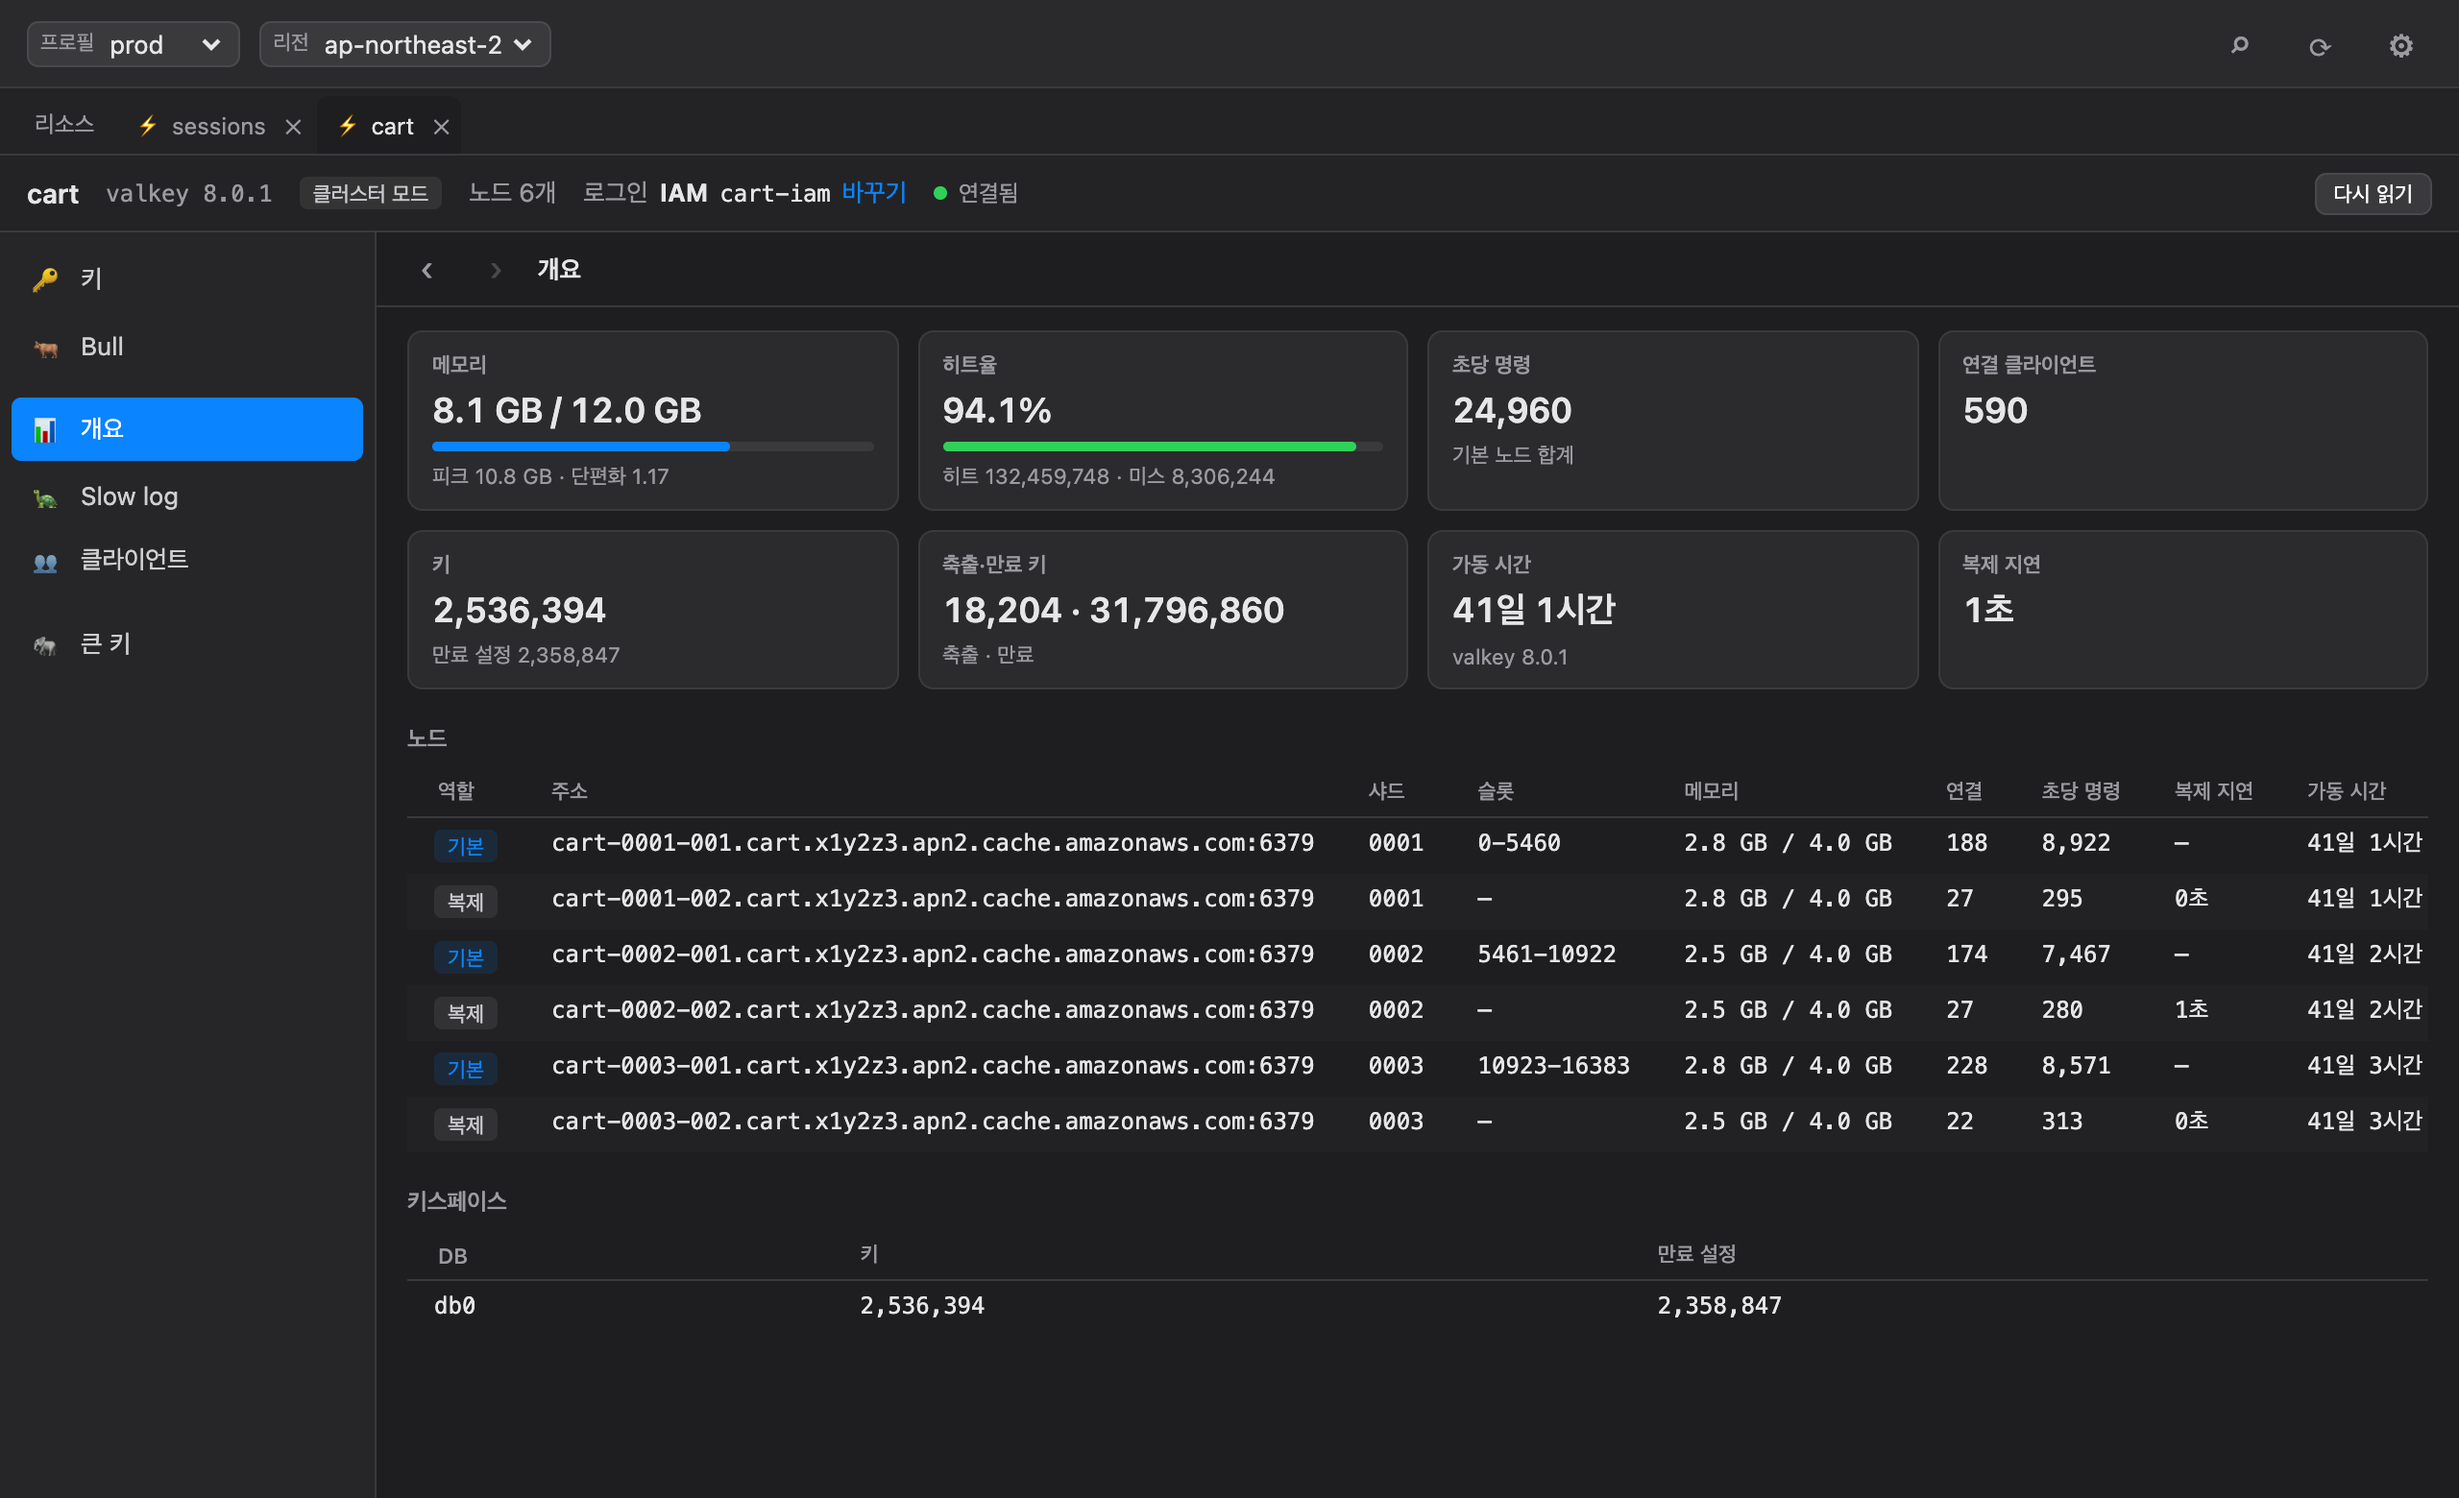
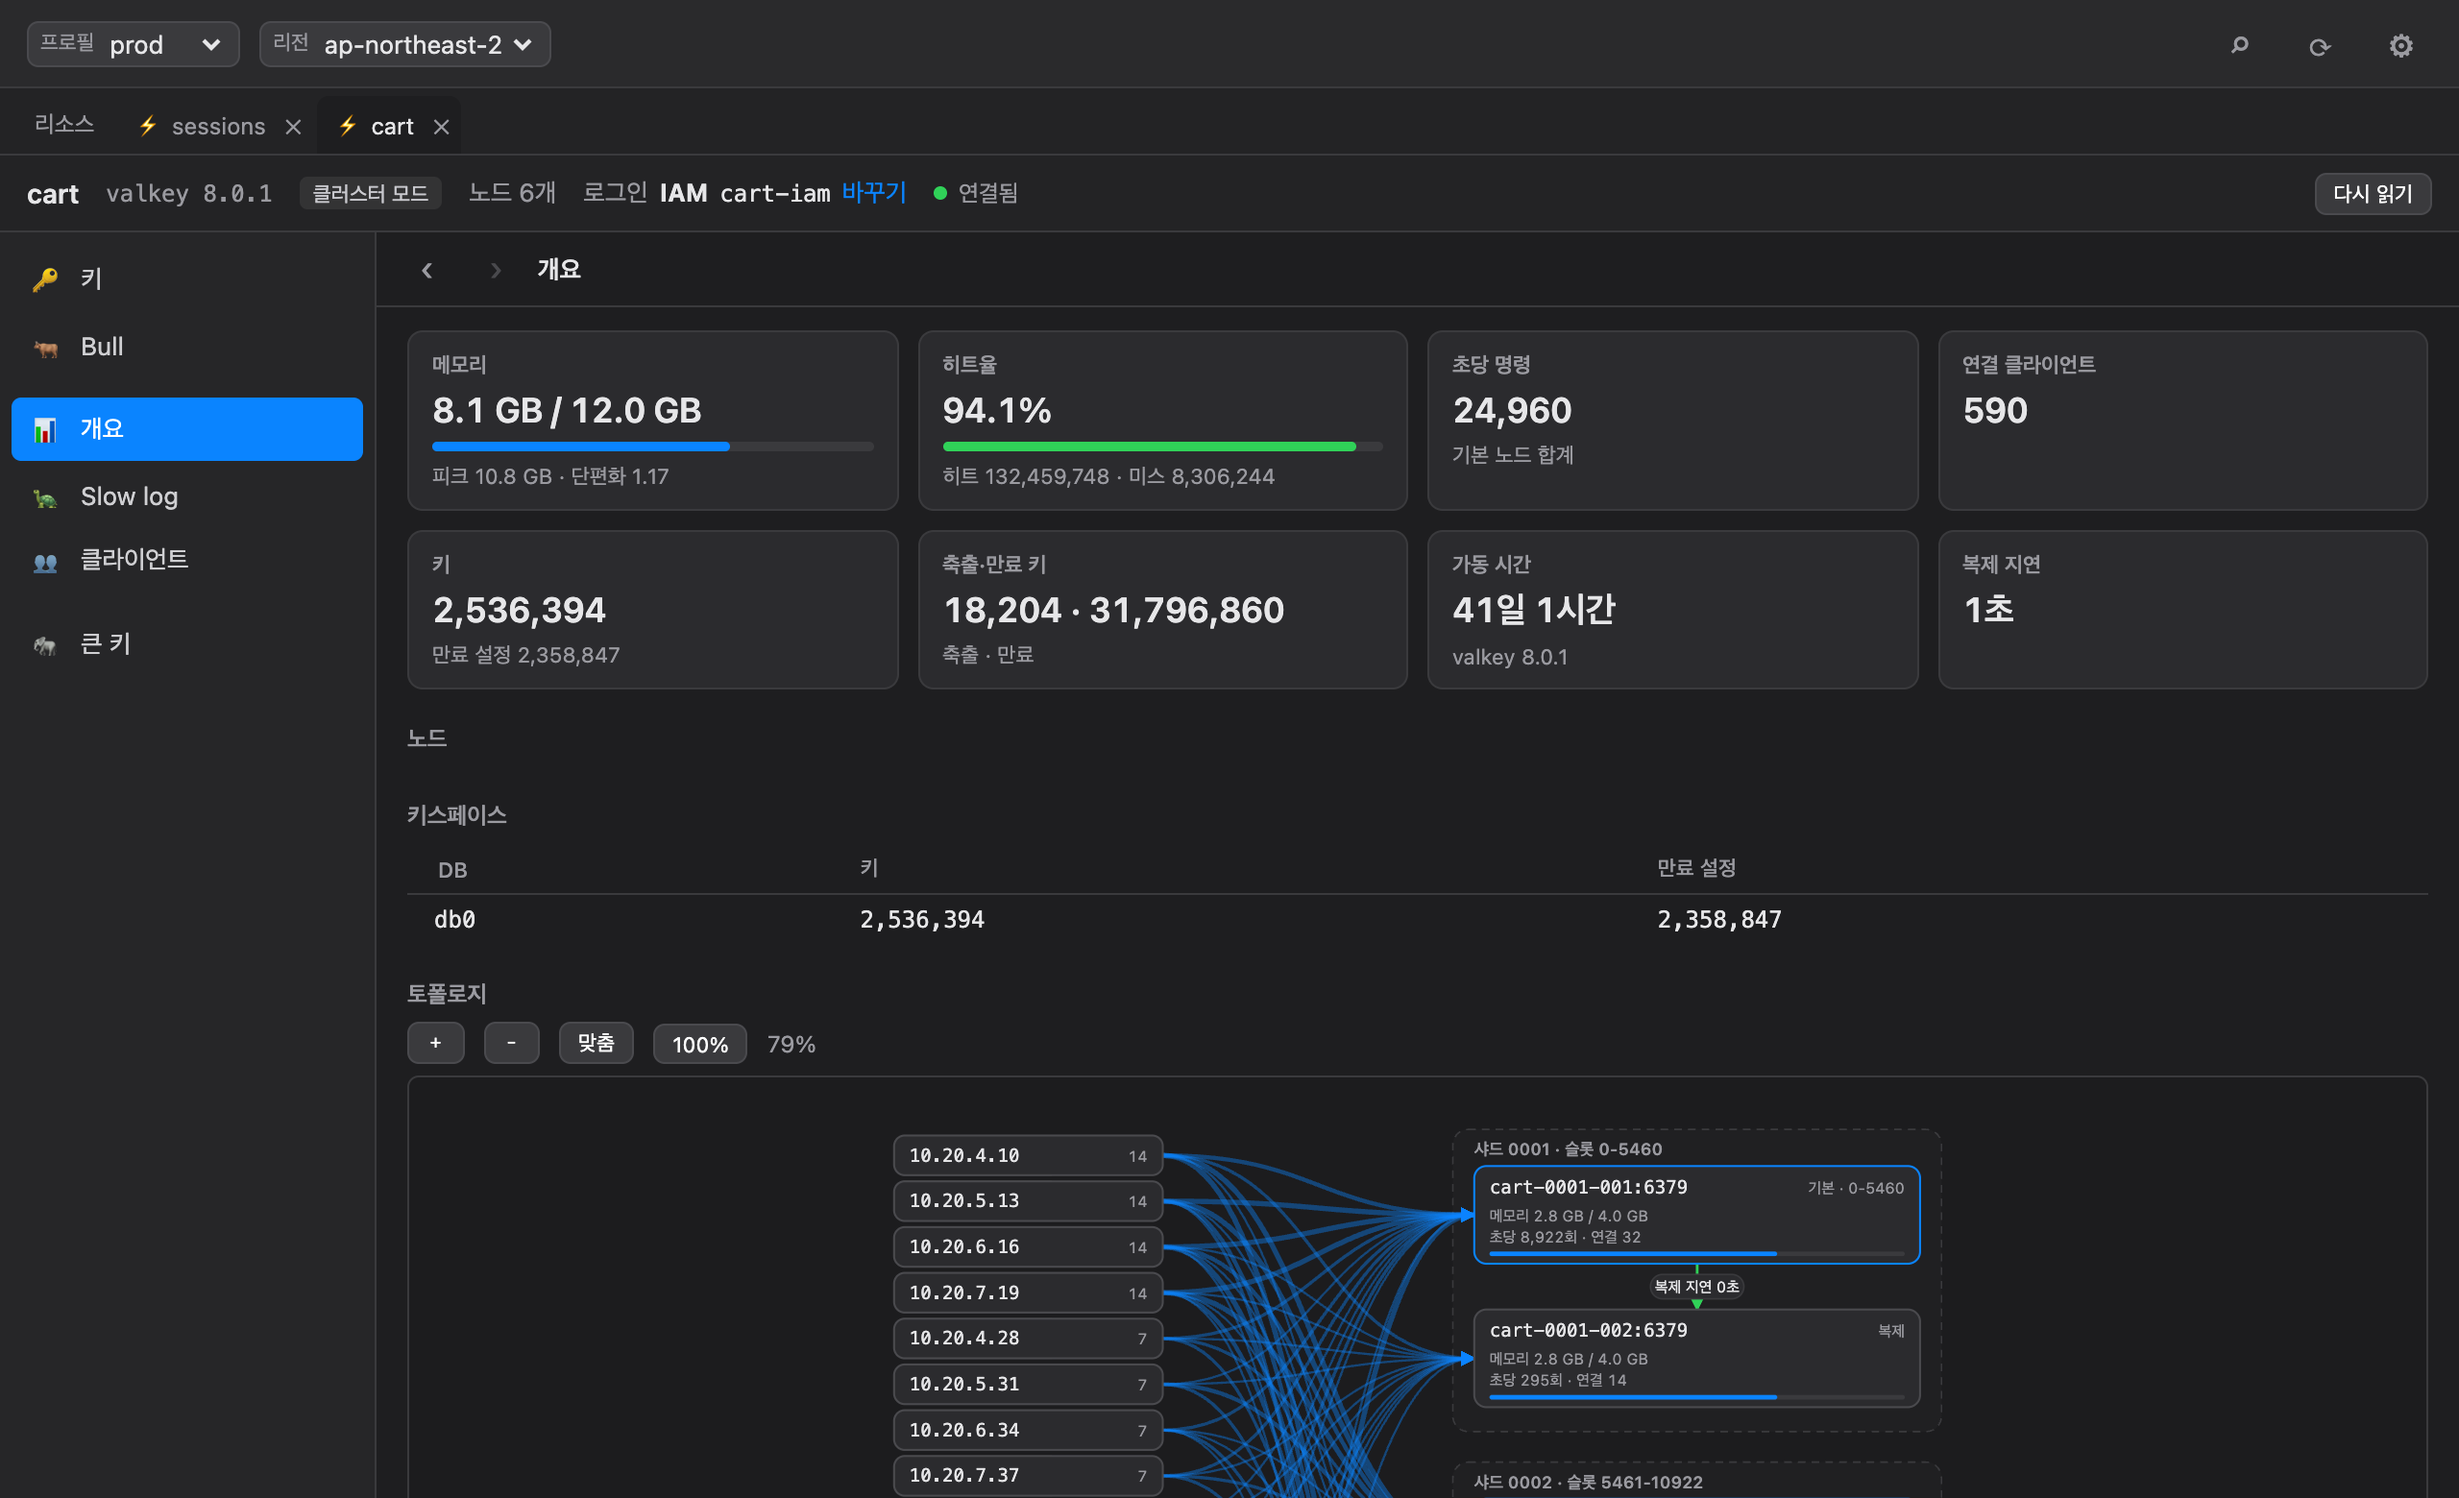
docs(kv): document the graph views and Bull 3 support

diff --git a/README.md b/README.md
@@ -328,10 +328,13 @@ Double-click a Valkey or Redis OSS row in **ElastiCache → Replication Groups**
 **Server**
 
 - **📊 개요**: memory against `maxmemory`, peak and fragmentation, hit ratio, commands per second, clients, evicted and expired keys, uptime, and replication lag, plus a node table (role, shard, slots) and the keyspace per DB.
+- **Topology graph** (in 📊 개요): shards as groups, primary → replica edges labelled with replication lag, slot ranges, memory and commands per node, and the client hosts (top 20 by connections, the rest folded) linked to the nodes they use.
 - **🐢 Slow log** (`COMMANDLOG` on Valkey 8.1+, else `SLOWLOG`), **👥 클라이언트** (`CLIENT LIST`, with the app's own connections marked), and **🐘 큰 키**: samples up to 5,000 keys and ranks the 50 largest by `MEMORY USAGE`, with progress and **중단**.
 - Serverless caches block `SLOWLOG`, `CLIENT LIST`, `MEMORY`, and `OBJECT`: those screens are turned off with the reason, and big keys are ranked by length instead.
 
 ![Overview of a three-shard cluster](docs/screenshots/kv-overview.png)
+
+![Cluster topology with client hosts](docs/screenshots/kv-topology.png)
 
 **🐂 Bull**
 
@@ -339,12 +342,22 @@ BullMQ and the older Bull keep each queue in plain keys (`<prefix>:<queue>:wait`
 
 - Enter the prefix (`bull` by default, `{bull}` and the like for hash-tagged cluster queues; remembered per cache) and the app finds the queues with a bounded `SCAN` (up to 20 s or 500,000 keys, then **이어서 찾기**).
 - **Queue cards**: counts per state as a stacked bar (waiting, active, delayed, prioritized, waiting for children, paused), completed and failed totals, workers (from `CLIENT LIST` connection names), and a 60-minute sparkline of completed and failed jobs. Queues with waiting jobs and no workers, or with many recent failures, come first with a red border; paused queues, backlogs of 1,000 or more, or a failure rate of 2% or more get a yellow one. The list reloads every 5 seconds while shown, unless the keyspace is large.
+- **Queue map** (**카드 | 지도**): queues as nodes in the cards' health colors, parent → child queue links with job counts (from the `parentKey` of up to 50 recent jobs per queue), and worker hosts linked to the queues they work.
 - **Queue detail**: state tiles that open the job table for that state, completed and failed per minute for the last hour (and per 10 minutes for the last day when BullMQ metrics are on), wait and processing time p50/p95 with histograms from the last 100 finished jobs, the oldest waiting job and the next delayed one, failure reasons grouped from the last 100 failures, and the workers.
-- **Job detail**: a timeline from created to started to finished, attempts, progress, data, options and return value as JSON trees, stack traces, the last 100 log lines, and the parent and child jobs of a flow, each one click away.
+- **상태 전이**: a graph of how jobs moved between states over the last 15 minutes, hour, or 6 hours, read from the queue's `events` stream (each entry names the event and the previous state). Edge widths and labels are counts; stalled jobs and exhausted retries are highlighted, other events (progress, drained, removed, …) are listed below. The stream is trimmed by BullMQ (`maxLenEvents`), so the panel says when it covers less than the chosen window.
+- **Job detail**: a timeline from created to started to finished, attempts, progress, data, options and return value as JSON trees, stack traces, and the last 100 log lines.
+- **Flow graph**: for a job in a BullMQ flow, the whole tree from the root parent down — across queues — with each job colored by state and edges marking pending, finished, failed, and ignored children (from `dependencies`, `processed`, `failed`, and `unsuccessful`), up to 300 jobs. Click a job to open it; **크게 보기** gives it the whole pane.
+- Both BullMQ and the older Bull are read, including Bull 3's sorted `completed`/`failed` sets and the plain sets of older versions.
 
 ![Bull queue detail](docs/screenshots/kv-bull-queue.png)
 
+![Bull queue map](docs/screenshots/kv-bull-map.png)
+
+![Bull state transitions](docs/screenshots/kv-bull-transitions.png)
+
 ![A failed Bull job](docs/screenshots/kv-bull-job.png)
+
+![Bull flow graph across queues](docs/screenshots/kv-bull-flow.png)
 
 ### S3 explorer
 ![S3 explorer](docs/screenshots/explorer.png)
@@ -534,7 +547,7 @@ Tests that need real servers are `#[ignore]`d in a normal `cargo test` and run t
 | --- | --- | --- |
 | `scripts/k8s-live-test.sh` | The EKS tab against two [kind](https://kind.sigs.k8s.io) clusters (default `kindest/node:v1.33.1` and `v1.35.0`; override with `KIND_IMAGES`), including a restricted ServiceAccount, CRDs, shells, port-forwards, drain, and the access, RBAC change, network, security check, and Helm fixtures in `scripts/k8s-live/` | Docker, `kind`, `kubectl`, `yq`, `jq`, `helm` |
 | `scripts/pg-live-test.sh` | The PostgreSQL catalog reads and changes against PostgreSQL 14 and 16 containers on `127.0.0.1:55414` / `55416`, removed when it ends | Docker |
-| `scripts/kv-live-test.sh` | The Valkey/Redis tab against Valkey 8 containers: a plain server with every value type and BullMQ- and Bull-shaped queues, an AUTH and ACL server (password, no-password, and restricted users), a TLS server with a CA made for the run, and a three-shard cluster; removed when it ends | Docker, `openssl` |
+| `scripts/kv-live-test.sh` | The Valkey/Redis tab against Valkey 8 containers: a plain server with every value type, BullMQ-, Bull 3-, and older Bull-shaped queues, a two-queue flow and an events stream, an AUTH and ACL server (password, no-password, and restricted users), a TLS server with a CA made for the run, and a three-shard cluster; removed when it ends | Docker, `openssl` |
 | `scripts/cost-live-test.sh <profile>` | The cost commands against a real account; about 3 Cost Explorer requests (≈ $0.03) | An AWS profile with Cost Explorer access |
 
 ### Maintenance scripts
